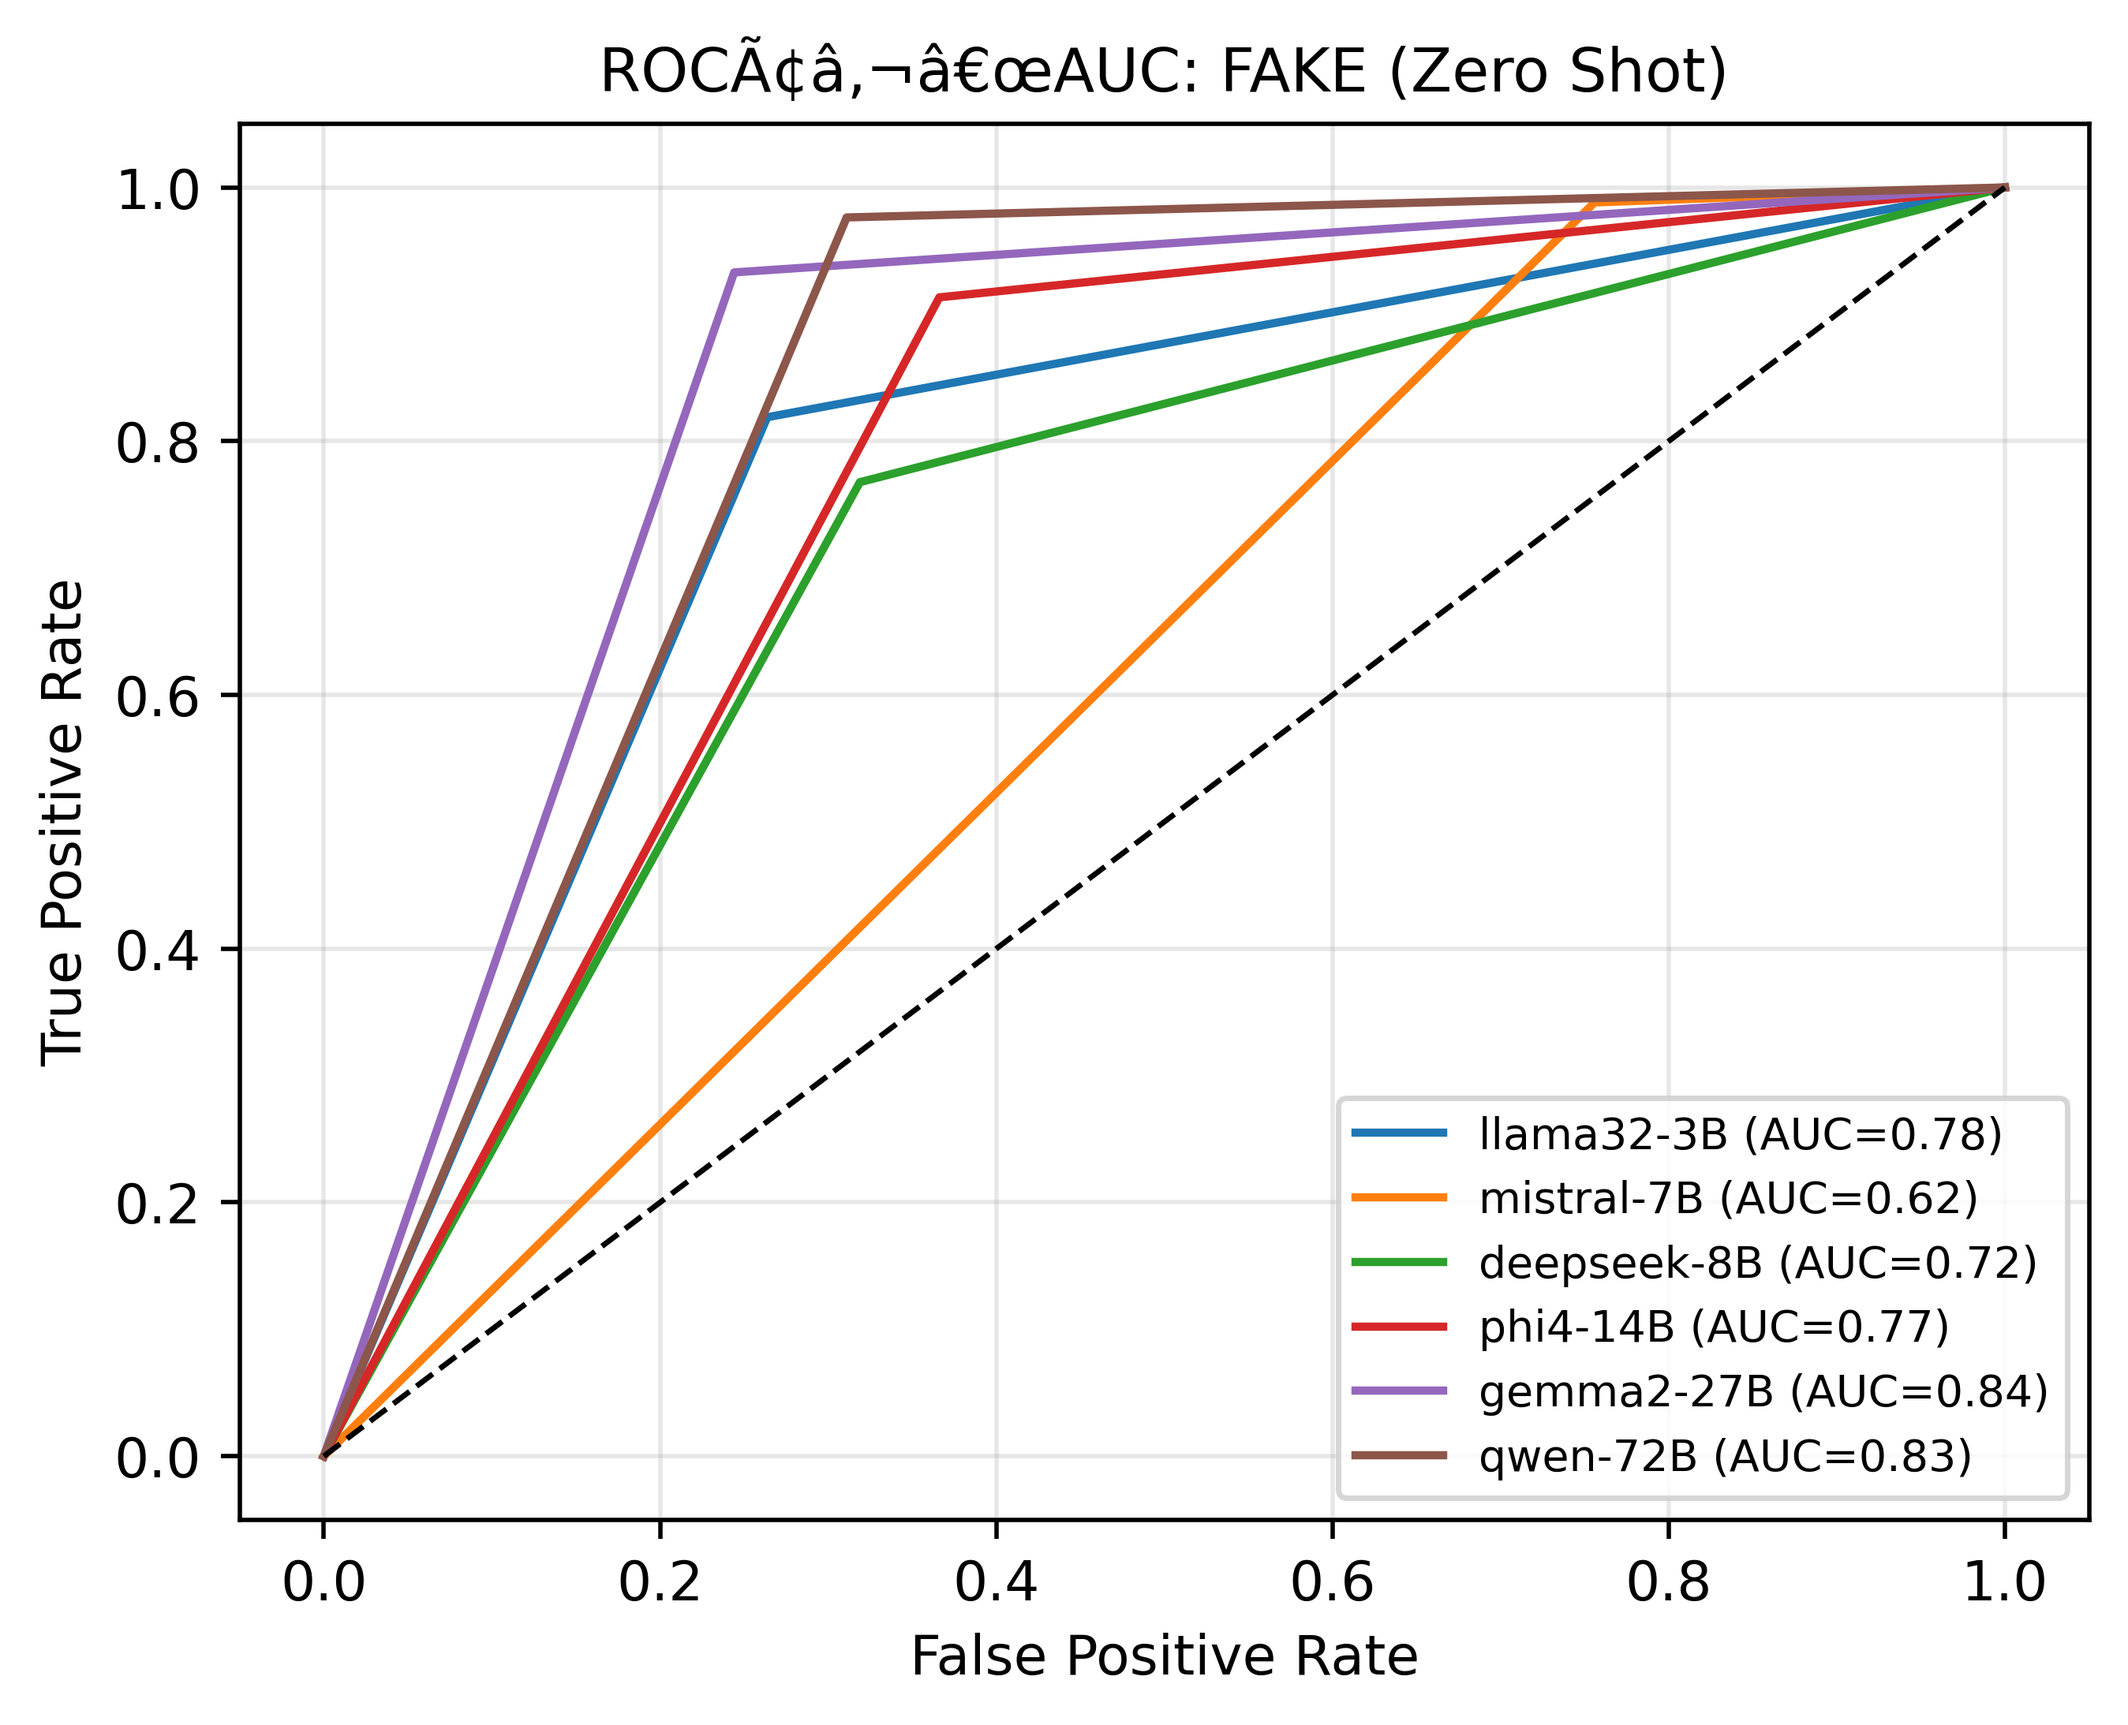
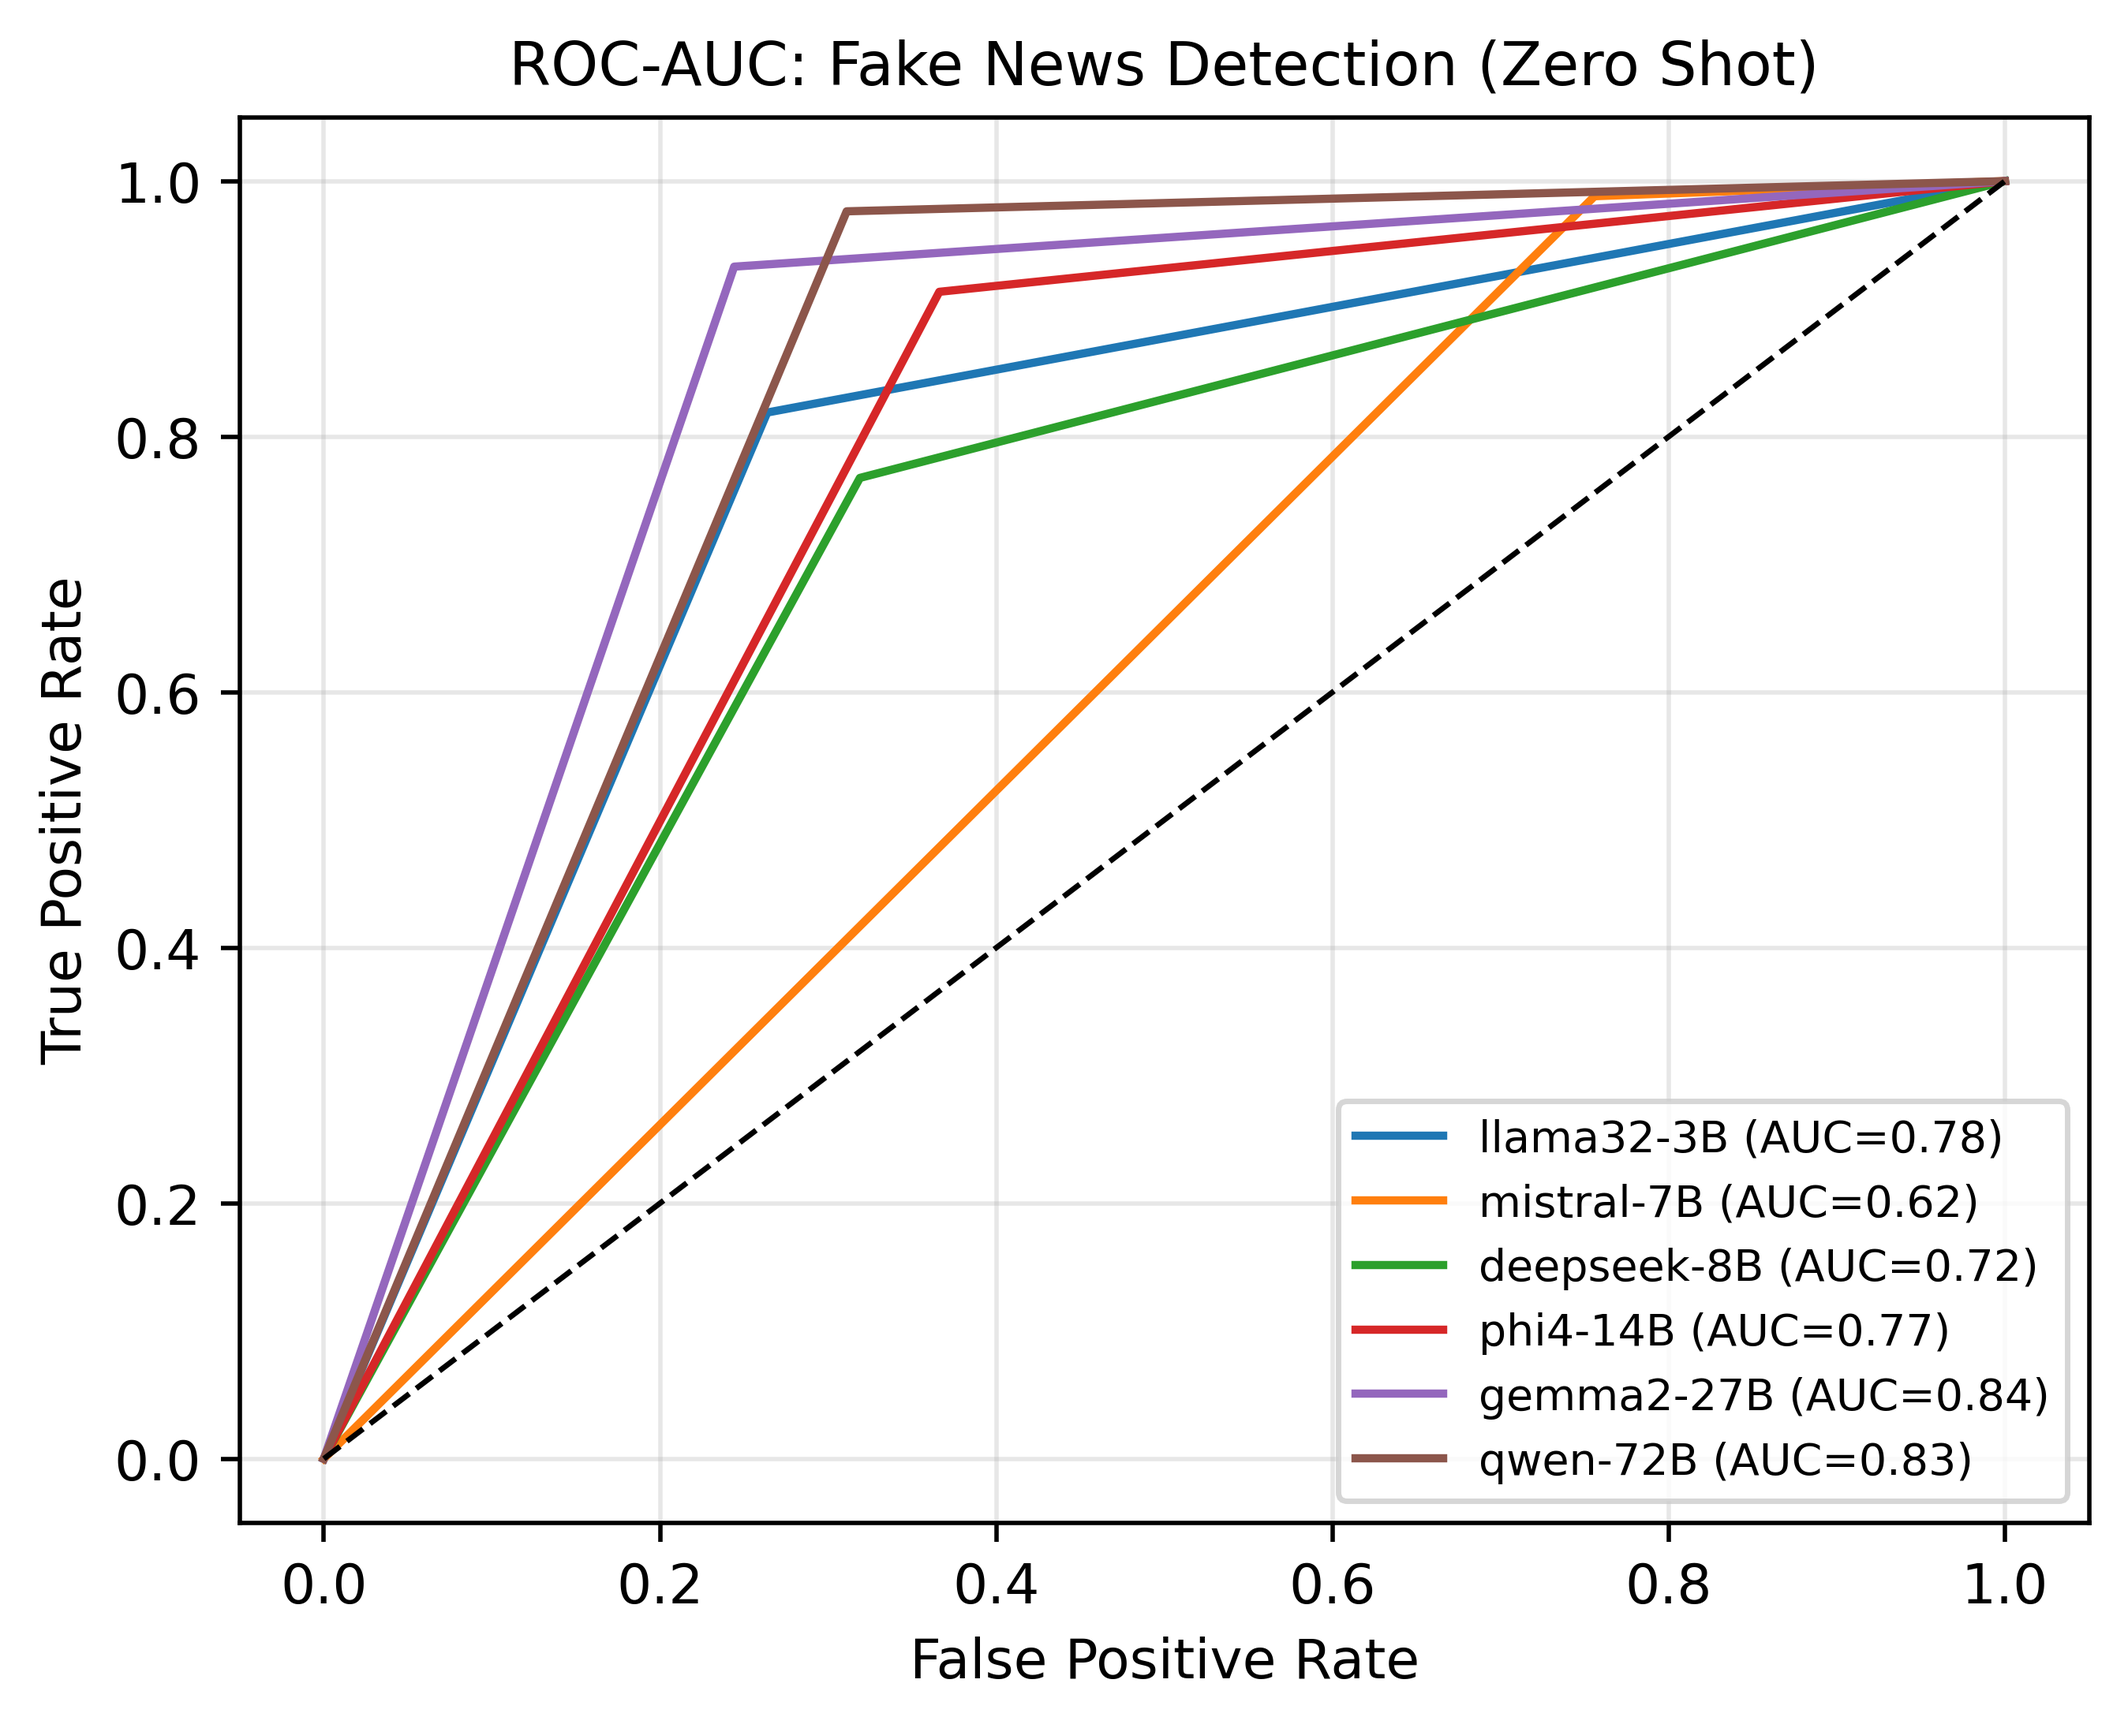
Update ROC-AUC plot headings with full dataset names

diff --git a/Scripts/plot_script.py b/Scripts/plot_script.py
@@ -865,7 +865,14 @@ def plot_roc_auc(df, dataset_name, mode, class_names, show=True):
     plt.plot([0, 1], [0, 1], 'k--', lw=1)
     plt.xlabel('False Positive Rate', fontsize=10)
     plt.ylabel('True Positive Rate', fontsize=10)
-    plt.title(f"ROC–AUC: {dataset_name.upper()} ({mode.replace('_', ' ').title()})", fontsize=11)
+    dataset_full_names = {
+        'senti': 'Sentiment Analysis',
+        'emo': 'Emotion Recognition',
+        'hate': 'Hate Speech Detection',
+        'fake': 'Fake News Detection'
+    }
+    title_dataset = dataset_full_names.get(dataset_name, dataset_name.upper())
+    plt.title(f"ROC–AUC: {title_dataset} ({mode.replace('_', ' ').title()})", fontsize=11)
     plt.legend(loc='lower right', fontsize=8)
     plt.grid(alpha=0.3)
     plt.tight_layout()
